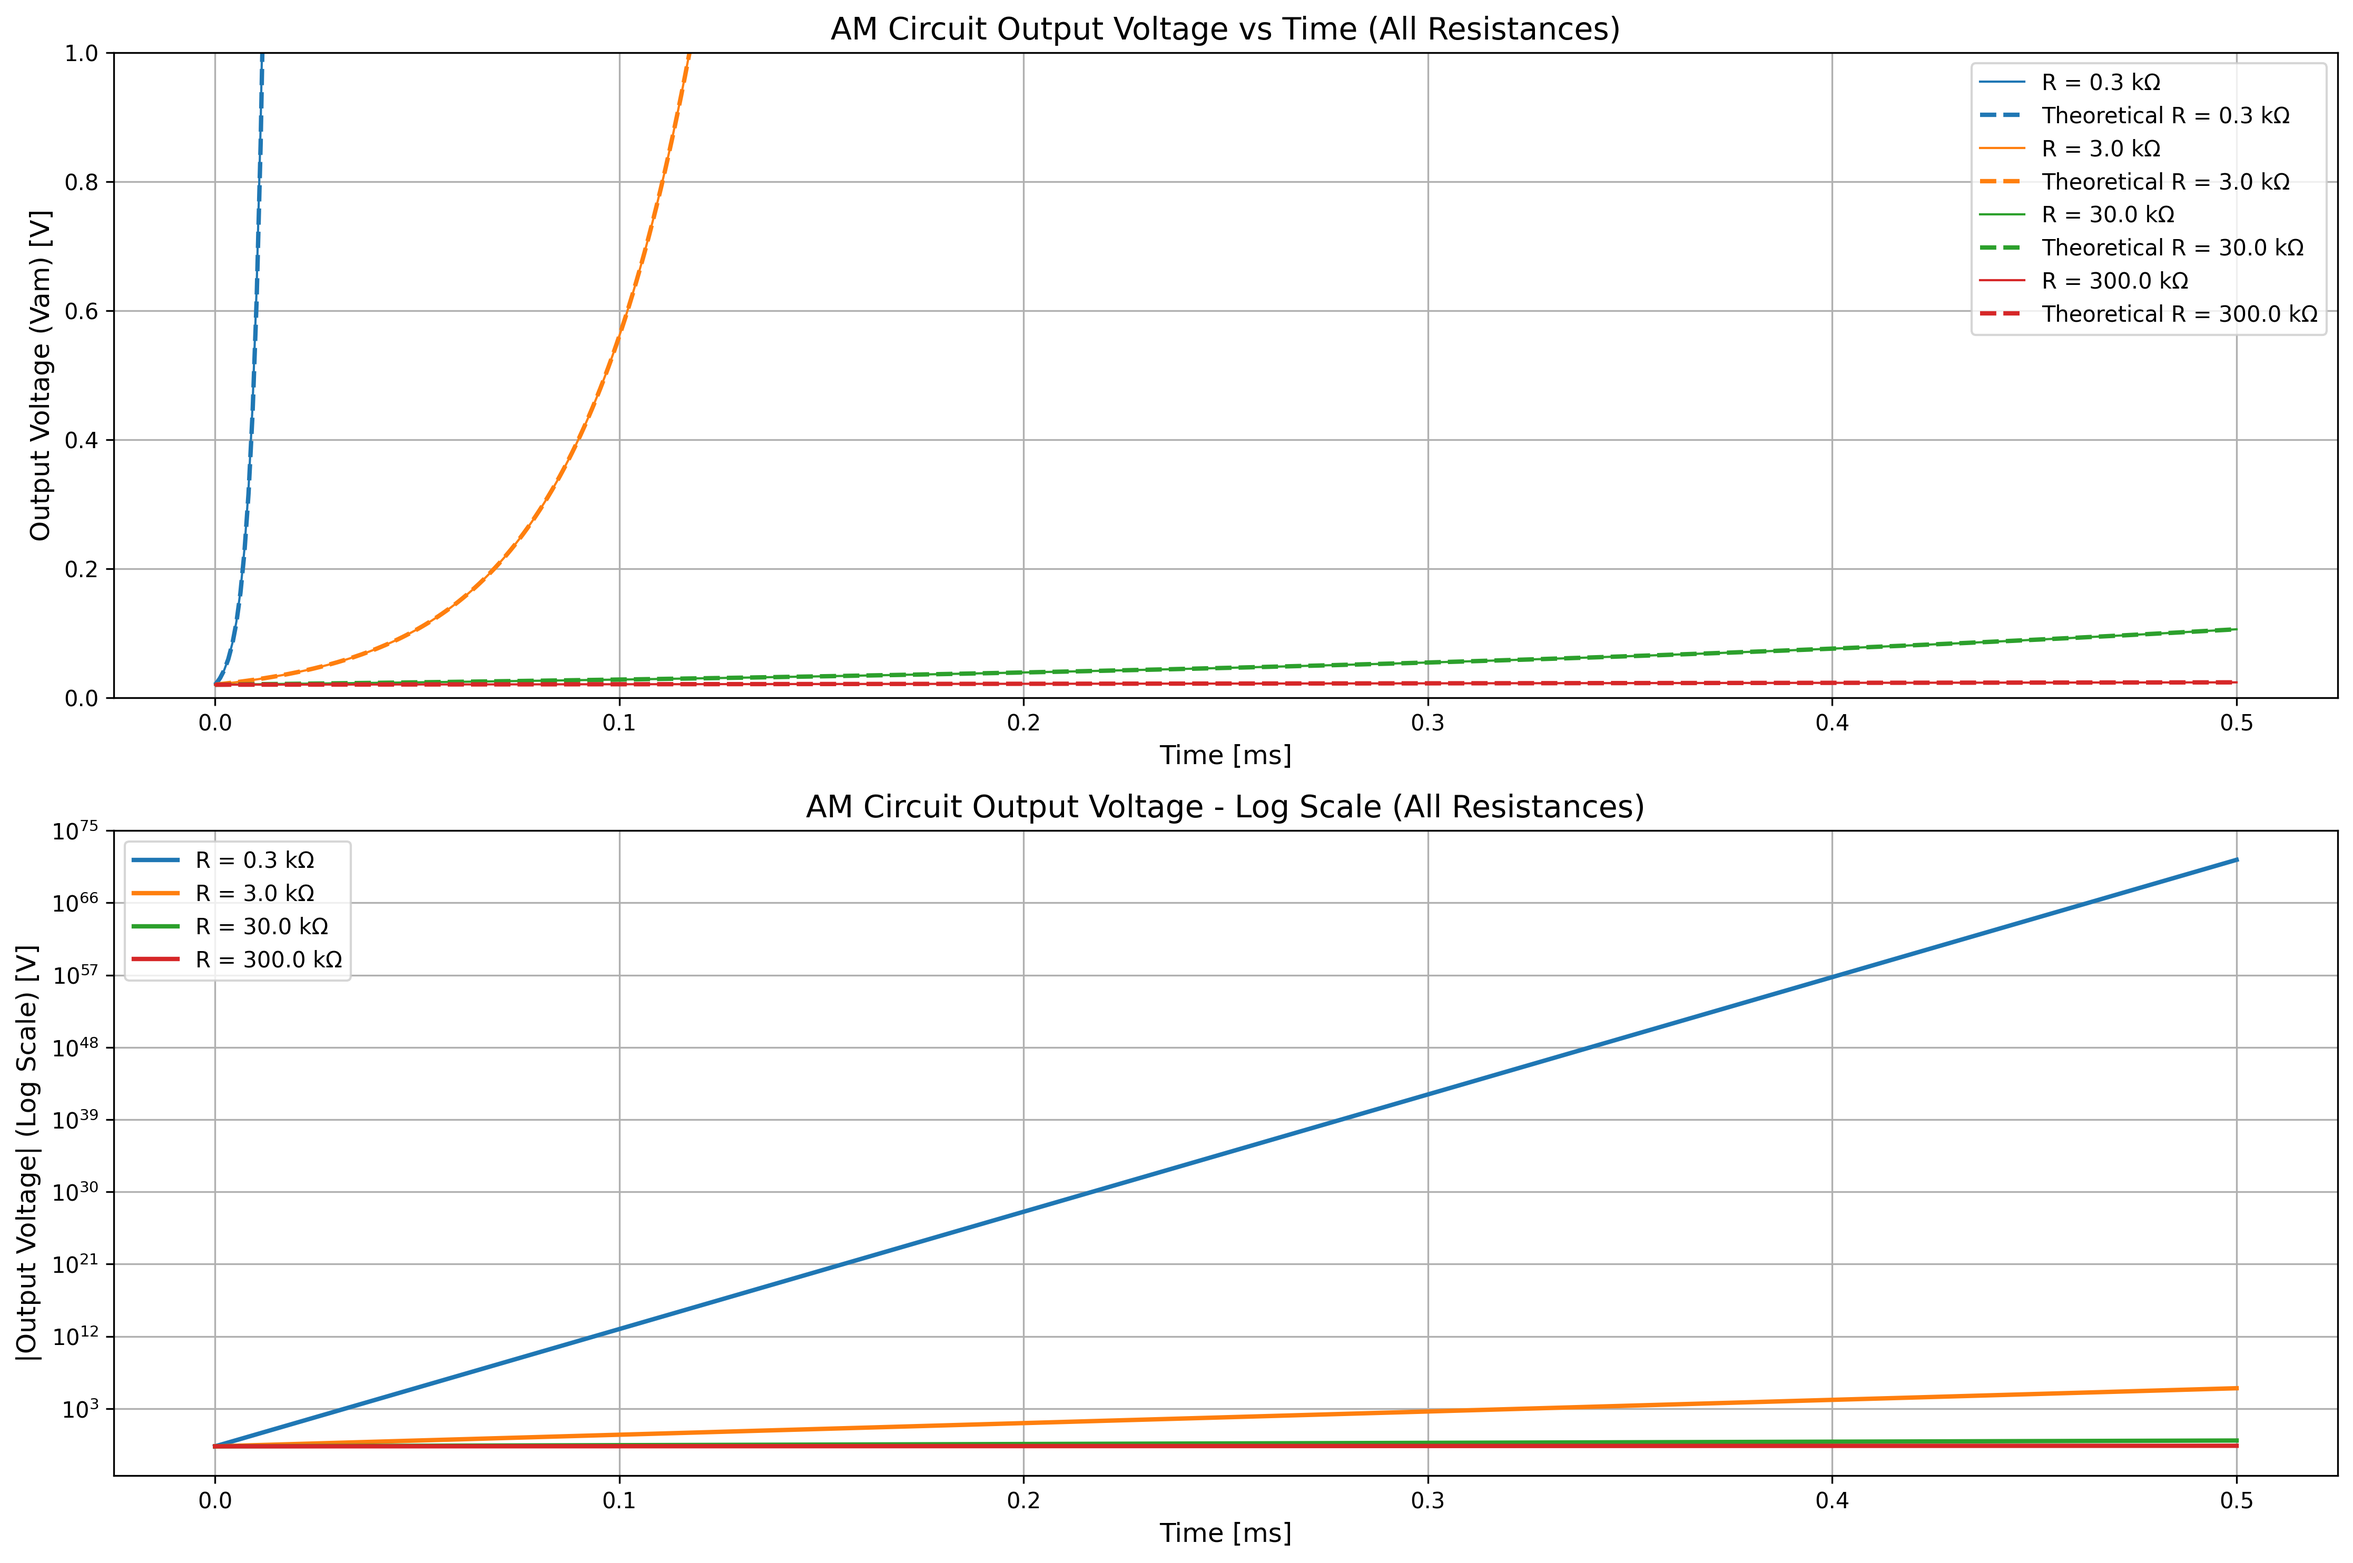
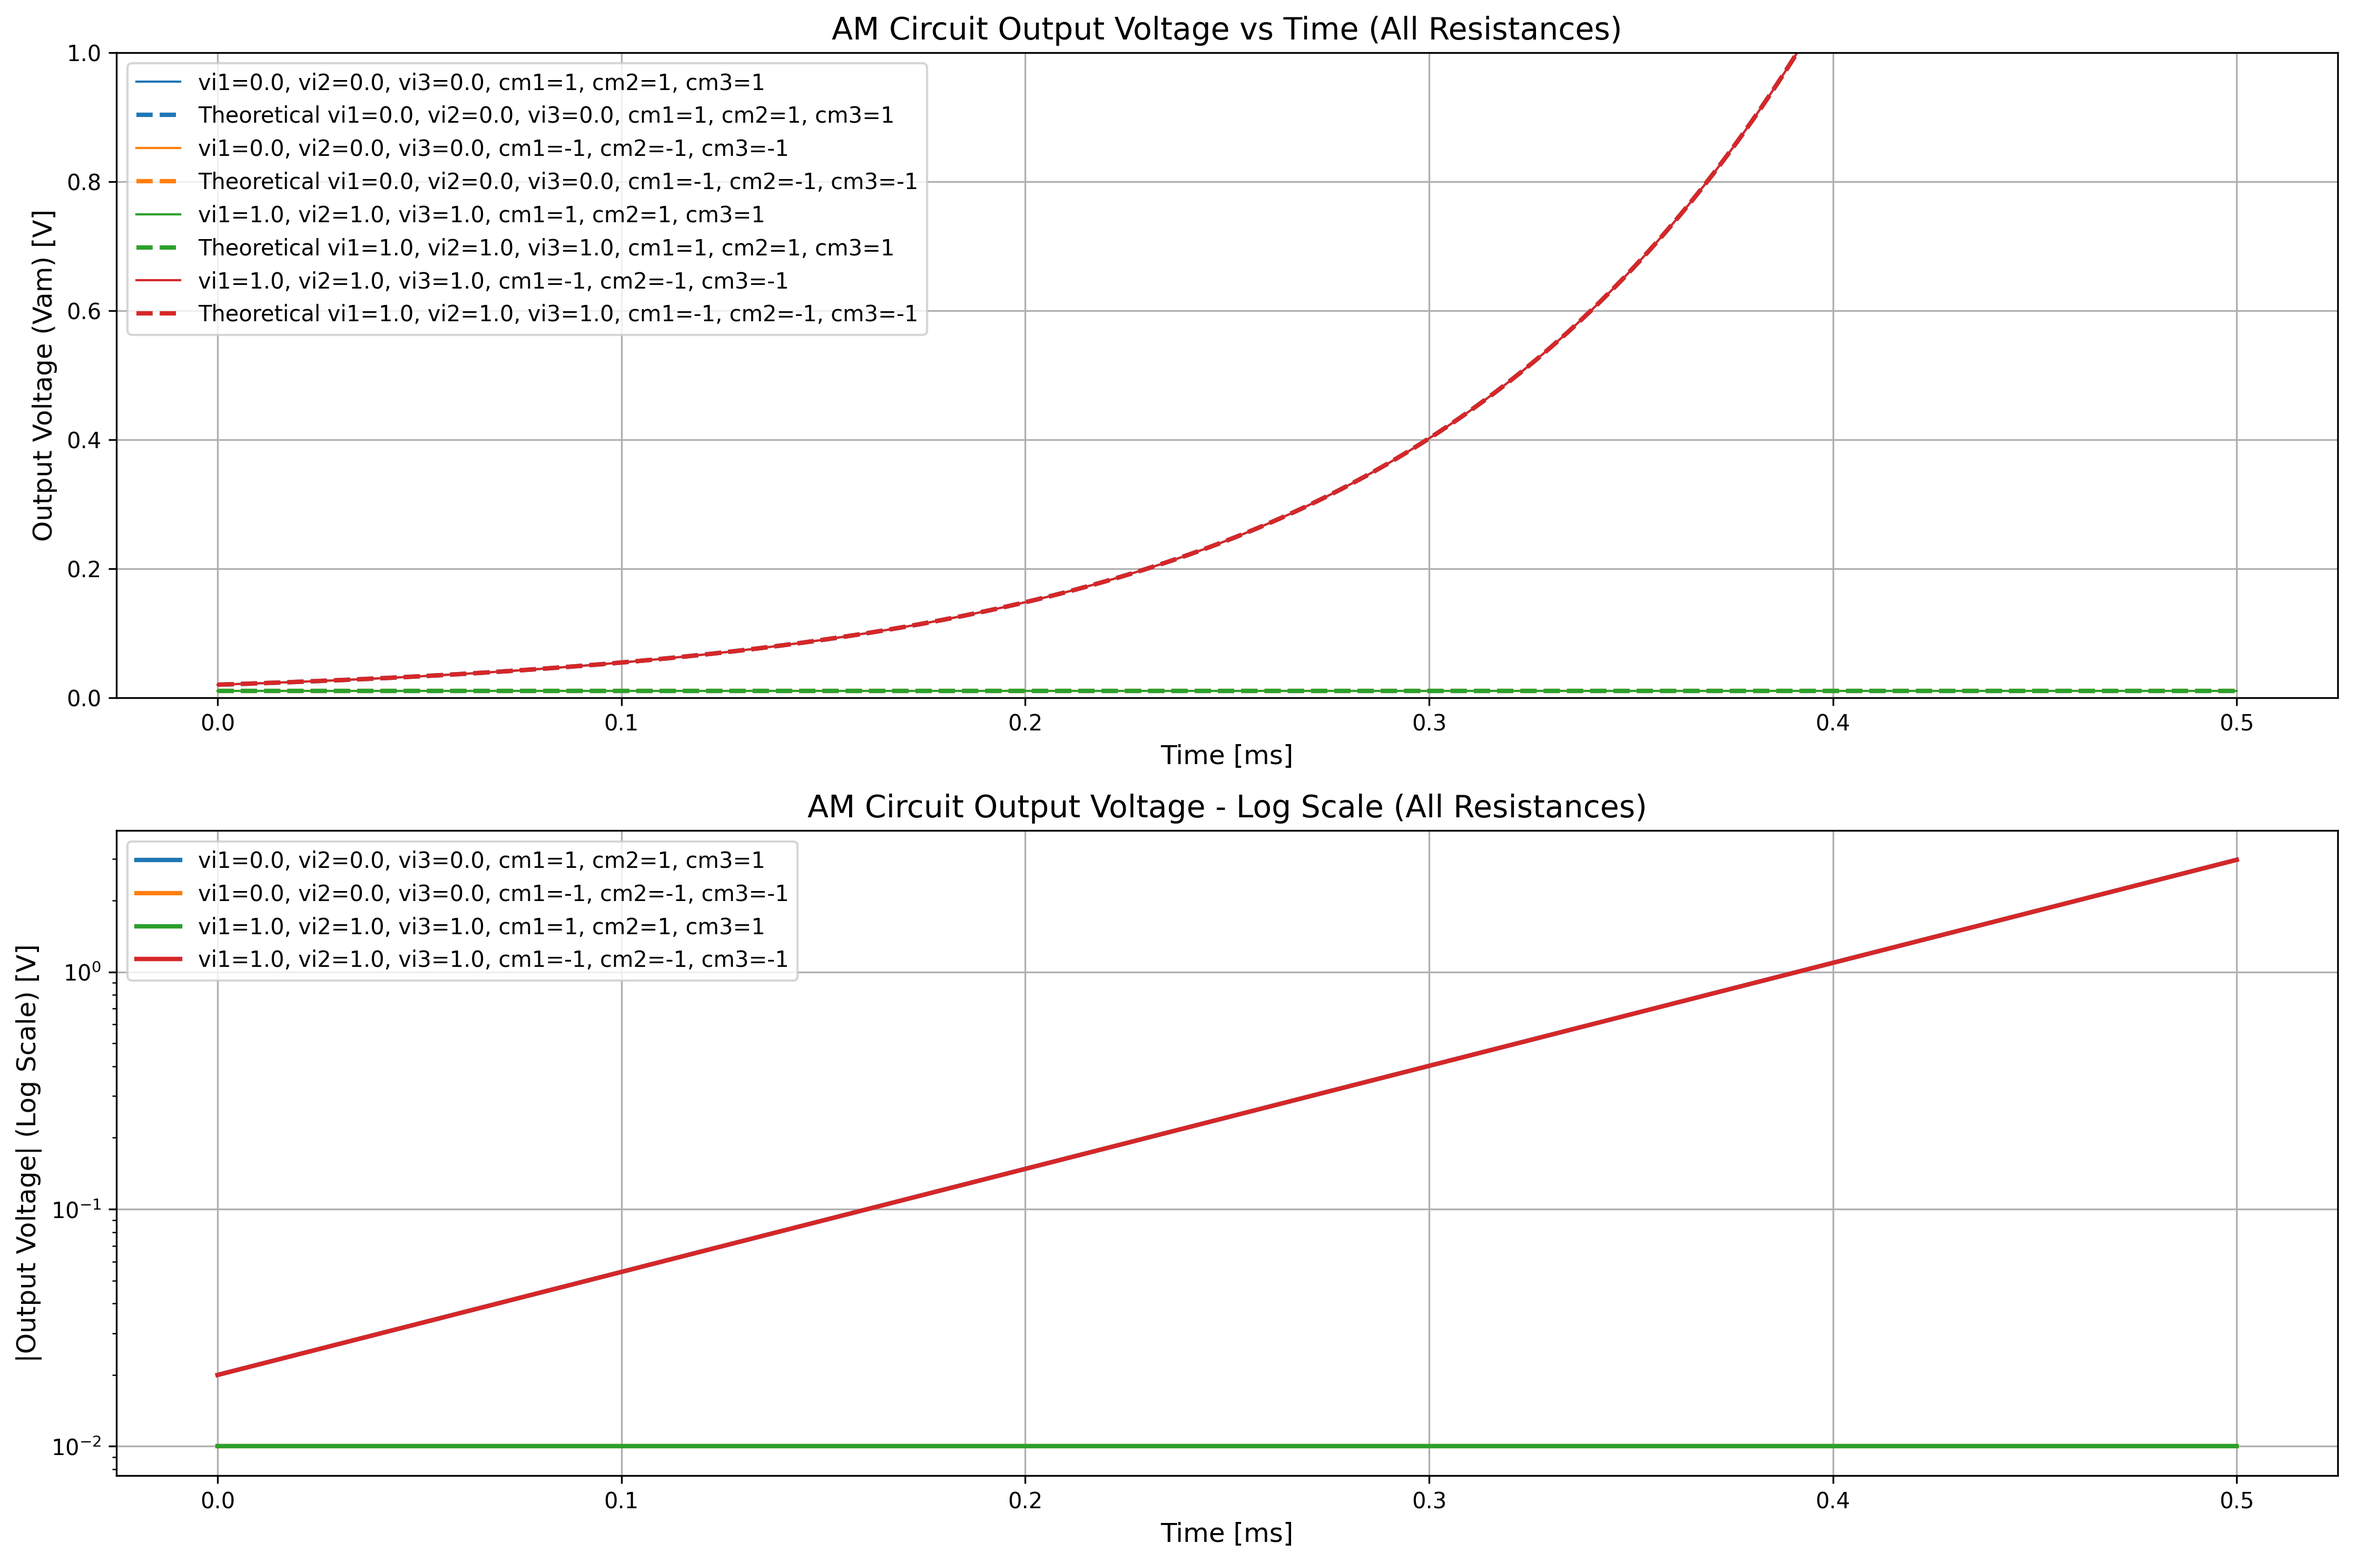
am new with cms

diff --git a/src/am_new.py b/src/am_new.py
@@ -1,10 +1,11 @@
 import PySpice.Logging.Logging as Logging
 from PySpice.Spice.Netlist import Circuit, SubCircuit
-from PySpice.Unit import u_ms, u_us, u_F, u_Ω
+from PySpice.Unit import u_ms, u_us, u_F, u_Ω, u_V
 import matplotlib.pyplot as plt
 import numpy as np
 import os
 
+from branch_voltage import TernaryMultiplexer
 
 class AMNewCircuit(SubCircuit):
     """
@@ -21,9 +22,9 @@ class AMNewCircuit(SubCircuit):
     - vi3: Voltage of third variable
     - gnd: Ground reference
     """
-    NODES = ('vam', 'n1', 'vi1', 'vi2', 'vi3', 'gnd')
+    NODES = ('vam', 'n1', 'vi1', 'vi2', 'vi3', 'vdd', 'gnd')
     
-    def __init__(self, R, C):
+    def __init__(self, cm1, cm2, cm3, R, C):
         """
         Initialize the AM circuit subcircuit with specific component values.
         
@@ -33,21 +34,50 @@ class AMNewCircuit(SubCircuit):
             gain (float): Voltage gain of the amplifier
                           Controls exponential growth rate by: growth_rate = (vi1*vi2*vi3)/(RC)
         """
-        super().__init__(f'AMCircuit_{R}_{C}', *self.NODES)
-            
-        # Store component values
-        self._C = C
+        super().__init__(f'AMCircuit_{cm1}_{cm2}_{cm3}_{R}_{C}', *self.NODES)
+        
+        # Create and add the ternary multiplexers
+        mux1 = TernaryMultiplexer(cmi=-cm1)
+        mux2 = TernaryMultiplexer(cmi=-cm2)
+        mux3 = TernaryMultiplexer(cmi=-cm3)
+        
+        # Create and add the NOR gate
+        # nor_gate = NorGate()
+        
+        # Add the subcircuits
+        self.subcircuit(mux1)
+        self.subcircuit(mux2)
+        self.subcircuit(mux3)
+        # self.subcircuit(nor_gate)
+
+        mux1_out = 'mux1_out'
+        mux2_out = 'mux2_out'
+        mux3_out = 'mux3_out'
+        # nor12_out = 'nor12_out'
+        nor123_out = 'nor123_out'
+        gain_node = 'gain_node'
+        
+        # Instantiate the multiplexers
+        self.X('mux1', mux1.name, 'vi1', mux1_out, 'vdd', 'gnd')
+        self.X('mux2', mux2.name, 'vi2', mux2_out, 'vdd', 'gnd')
+        self.X('mux3', mux3.name, 'vi3', mux3_out, 'vdd', 'gnd')
+
+        # Instantiate the NOR gate to compute V(vi1)*V(vi2)*V(vi3)
+        # self.X('nor12', nor_gate.name, mux1_out, mux2_out, nor12_out, 'vdd', 'gnd')
+        # self.X('nor123', nor_gate.name, nor12_out, mux3_out, nor123_out, 'vdd', 'gnd')
+        self.B('nor123', nor123_out, 'gnd', v='V(mux1_out)*V(mux2_out)*V(mux3_out)')
+
+        # Add 1V power supply to get V(vi1)*V(vi2)*V(vi3) + 1V
+        self.V('gain_node', gain_node, nor123_out, 1@u_V)
         
         # Add RC circuit with initial condition capability
         self.R('1', 'n1', 'vam', R@u_Ω)
         self.C('1', 'n1', 'gnd', C@u_F)
-
-        self.V('v1', 'v1', 'gnd', 1.0)
         
         # Add controlled source with feedback to create exponential growth
         # The growth rate is determined by: growth_rate = (gain-1)/(RC)
         # E <name> <out+> <out-> <in+> <in-> <gain>
-        self.B('amp', 'vam', 'gnd', v='((V(vi1)*V(vi2)*V(vi3))+V(v1))*V(n1)')
+        self.B('amp', 'vam', 'gnd', v='V(gain_node)*V(n1)')
 
 
 def simulate_am_circuit():
@@ -55,7 +85,7 @@ def simulate_am_circuit():
     Simulate the AM circuit and plot the output.
     """
     # Define component values
-    Rs = [0.3e3, 3e3, 30e3, 300e3]
+    R = 10e3
     C = 0.01e-6
 
     # Set simulation parameters
@@ -75,30 +105,50 @@ def simulate_am_circuit():
     all_labels = []
 
     n1_init = 0.01
-    vi1 = 1.0
-    vi2 = 1.0
-    vi3 = 1.0
-    vam_init = (vi1 * vi2 * vi3 + 1) * n1_init
+    cases = [
+        {'vi1': 0.0, 'vi2': 0.0, 'vi3': 0.0, 'cm1': 1, 'cm2': 1, 'cm3': 1},
+        {'vi1': 0.0, 'vi2': 0.0, 'vi3': 0.0, 'cm1': -1, 'cm2': -1, 'cm3': -1},
+        {'vi1': 1.0, 'vi2': 1.0, 'vi3': 1.0, 'cm1': 1, 'cm2': 1, 'cm3': 1},
+        {'vi1': 1.0, 'vi2': 1.0, 'vi3': 1.0, 'cm1': -1, 'cm2': -1, 'cm3': -1},
+    ]
     
-    for R in Rs:
+    for case in cases:
+        vi1 = case['vi1']
+        vi2 = case['vi2']
+        vi3 = case['vi3']
+        cm1 = case['cm1']
+        cm2 = case['cm2']
+        cm3 = case['cm3']
+
         # Create a circuit
         circuit = Circuit('AM Circuit Simulation')
 
+        mux1 = 1 - vi1 if cm1 == 1 else vi1
+        mux2 = 1 - vi2 if cm2 == 1 else vi2
+        mux3 = 1 - vi3 if cm3 == 1 else vi3
+        prod = mux1 * mux2 * mux3
+
         # Calculate the theoretical growth rate
-        growth_rate = (vi1*vi2*vi3)/(R*C)
+        vam_init = (prod + 1) * n1_init
+        growth_rate = prod/(R*C)
         print(f"Theoretical growth rate: {growth_rate:.2f} Hz")
-        print(f"Theoretical time constant: {1000/growth_rate:.3f} μs")
+        if growth_rate > 0:
+            print(f"Theoretical time constant: {1000/growth_rate:.3f} μs")
+        else:
+            print("Growth rate is zero")
             
         # Add the AMCircuit subcircuit
-        am_circuit = AMNewCircuit(R, C)
+        am_circuit = AMNewCircuit(cm1, cm2, cm3, R, C)
         circuit.subcircuit(am_circuit)
+
+        circuit.V('vdd', 'vdd', circuit.gnd, 1@u_V)
 
         circuit.V('vi1', 'vi1', circuit.gnd, vi1)
         circuit.V('vi2', 'vi2', circuit.gnd, vi2)
         circuit.V('vi3', 'vi3', circuit.gnd, vi3)
         
         # Instantiate the AM circuit
-        circuit.X('am1', am_circuit.name, 'vam', 'n1', 'vi1', 'vi2', 'vi3', circuit.gnd)
+        circuit.X('am1', am_circuit.name, 'vam', 'n1', 'vi1', 'vi2', 'vi3', 'vdd', circuit.gnd)
         
         # Create simulator with specific instructions to honor initial conditions
         simulator = circuit.simulator(temperature=25, nominal_temperature=25)
@@ -155,10 +205,10 @@ def simulate_am_circuit():
         all_labels.append(f'R = {R/1000:.1f} kΩ')
     
         # Plot on the combined figures
-        plotted = ax1.plot(time * 1000, vam, linestyle='-', linewidth=1, label=f'R = {R/1000:.1f} kΩ')
+        plotted = ax1.plot(time * 1000, vam, linestyle='-', linewidth=1, label=f'vi1={vi1}, vi2={vi2}, vi3={vi3}, cm1={cm1}, cm2={cm2}, cm3={cm3}')
         color = plotted[0].get_color()
-        ax1.plot(time * 1000, vam_theory, linestyle='--', linewidth=2, label=f'Theoretical R = {R/1000:.1f} kΩ', color=color)
-        ax2.semilogy(time * 1000, np.abs(vam), linewidth=2, label=f'R = {R/1000:.1f} kΩ')
+        ax1.plot(time * 1000, vam_theory, linestyle='--', linewidth=2, label=f'Theoretical vi1={vi1}, vi2={vi2}, vi3={vi3}, cm1={cm1}, cm2={cm2}, cm3={cm3}', color=color)
+        ax2.semilogy(time * 1000, np.abs(vam), linewidth=2, label=f'vi1={vi1}, vi2={vi2}, vi3={vi3}, cm1={cm1}, cm2={cm2}, cm3={cm3}')
     
     # Format the first figure (linear and log plots)
     ax1.set_xlabel('Time [ms]', fontsize=12)
@@ -187,19 +237,6 @@ def simulate_am_circuit():
     print("Combined logarithmic plot saved to 'graphs/am_new_output.png'")
     
     plt.show()
-    
-    # Analyze and print characteristics of the outputs
-    print("\nCircuit Analysis Summary:")
-    for i, R in enumerate(Rs):
-        print(f"\nR = {R/1000:.1f} kΩ:")
-        print(f"Initial Voltage: {all_vams[i][0]:.6f}V")
-        print(f"Final Voltage: {all_vams[i][-1]:.6f}V")
-        print(f"Maximum Voltage: {np.max(all_vams[i]):.6f}V")
-        print(f"Minimum Voltage: {np.min(all_vams[i]):.6f}V")
-        
-        # Print growth rates
-        print(f"Fitted Exponential Growth Rate: {all_growth_rates[i]:.2f} Hz")
-        print(f"Time Constant from Fit: {1000/all_growth_rates[i]:.3f} μs")
 
 if __name__ == '__main__':
     # Set up logging
